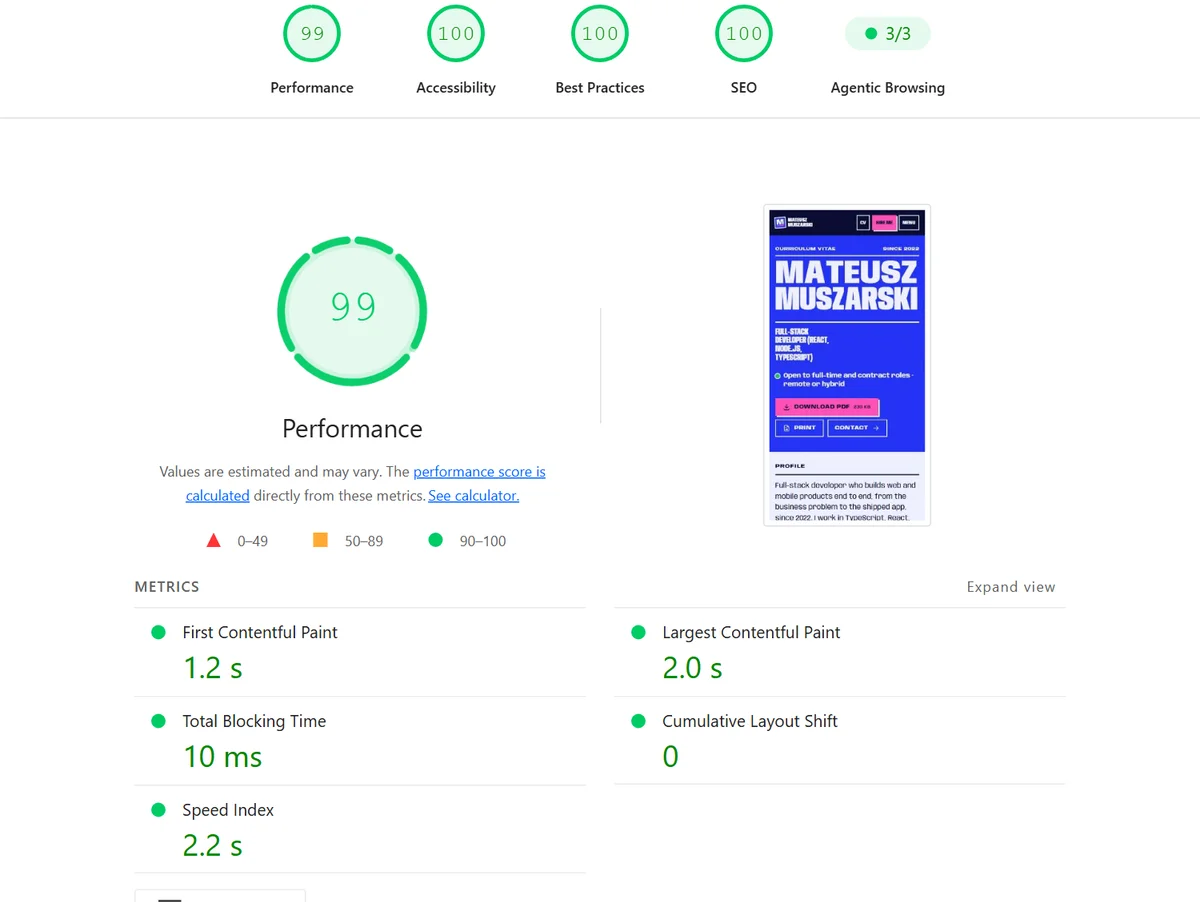
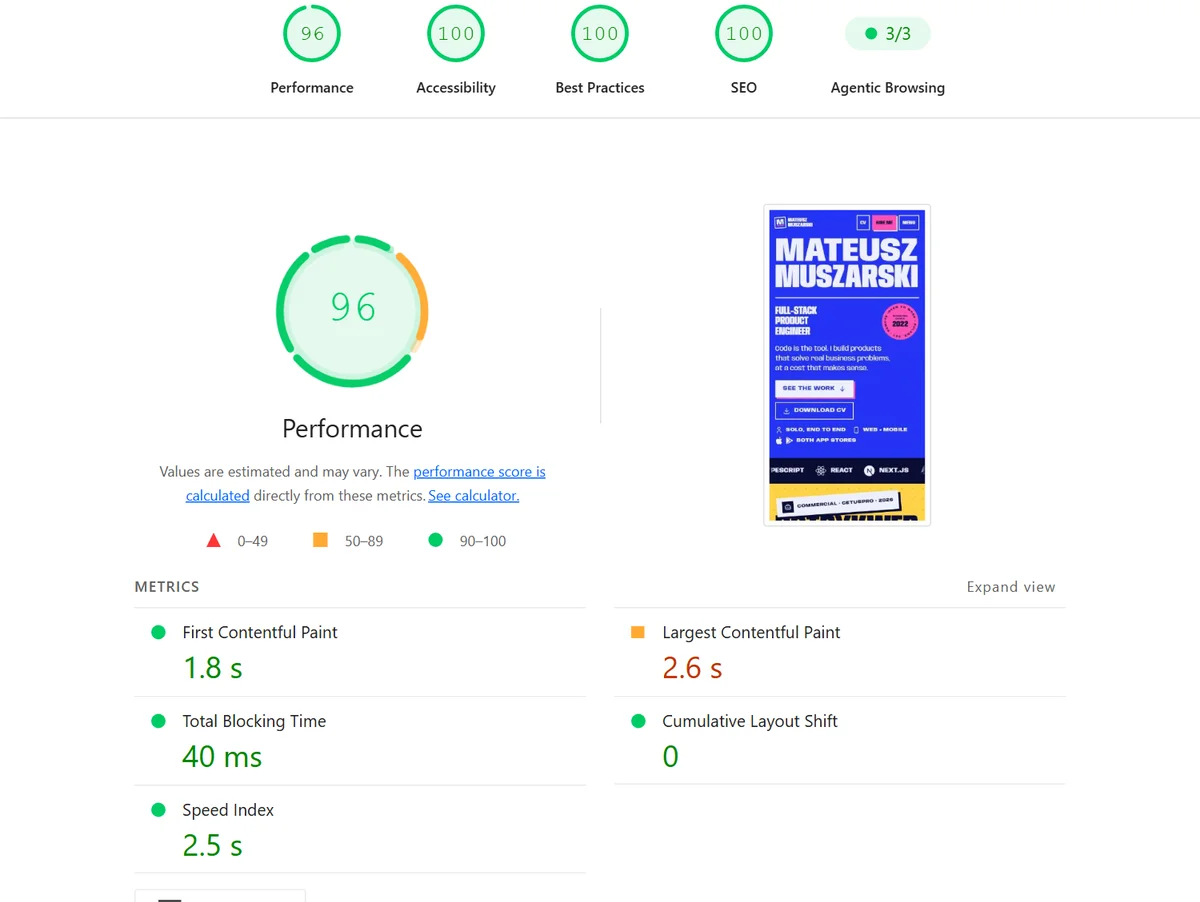
perf(home): back over the speed bar; the case study quotes the new numbers
Home was at Lighthouse 67-74 (TBT up to 1.1 s) after today's rounds. The code
fixes landed in 60813b8 (a parallel session's WIP commit took them from the
working tree); this commit documents them and updates what quotes the numbers:
- the chapters' loops wait for the reader's first move (html.woke)
- sections start paused and .near marks the visible ones (was .off on every
  offscreen section, which restyled 1,658 elements on load)
- the AI scene sits in block flow (grids around its size container cost ~1 s)
- Chapters sets top, not an inherited --stick
- reveals and undraws animate only the reveal
- How I work and the AI story ship their first state in the markup

Quiet machine, local build, median of 3: home 95-96, TBT 33-93 ms, CLS 0;
the other pages 96-100; e2e 236/236.

The case study (en, pl) now says 95+ and quotes this run; its report image is
a real home report and both OG images carry the new title. Wiki: run-notes,
design, astro usage, lessons (merged; five promoted to their pages), log.

diff --git a/.claude/project-info/lessons.md b/.claude/project-info/lessons.md
@@ -3,8 +3,9 @@
 > Mistakes already paid for, as one-line rules. `.claude/hooks/session-start.mjs` injects the "Rules"
 > section into every session and after every compaction, so it stays short: no more than 60 rules and
 > under the 8,000-character card, merged and pruned. How to add, place and promote one: `working-agreement.md` § 7.
-> Product facts live in their own page, not here. Promoted 2026-10-07 (still in their pages): Sätteri plugins
-> (astro.md), fontkit, `api/` ESM imports and host redirects (technologies.md), production hosts (analytics.md), the
+> Product facts live in their own page, not here. Promoted 2026-10-07 (still in their pages): Sätteri plugins,
+> `content-visibility`, the stuck-chapter focus, MDX component CSS and `satisfies` (astro.md), fontkit, `api/` ESM
+> imports and host redirects (technologies.md), production hosts (analytics.md), WebKit font shots (visual-qa.md), the
 > foldered wiki (README.md).
 
 ## Rules
@@ -34,12 +35,12 @@
 - `Icon.astro` forwards Astro's scope attribute, so a scoped `svg` selector also hits icons; target drawn SVGs by class - 2026-10-05.
 - Inline `<script>`s render between sibling sections: count siblings with `:nth-of-type`, not `:nth-child` - 2026-10-05.
 - A grid-stacked hidden label still sets the grid's width (it pushed the header off a 320 px screen); size stacks for the visible state - 2026-10-05.
-- Chrome holds first paint for a preloaded font, and HTML bytes compete with it: keep page HTML lean (icons live in the cached sprite; first-screen icons `inline`) - 2026-10-06.
+- Chrome holds first paint for a preloaded font, and HTML bytes compete with it: keep page HTML lean (icons in the cached sprite; first-screen icons `inline`). Keep the preload: without it home LCP fell 0.6 s but the parse landed after first paint (TBT 33 → 775 ms) - 2026-10-06.
 - A child rule like `.dlink > span { width: 100% }` also hits an added `.sr-only` span (a 1,193 px overflow): exclude `.sr-only` or wrap the visible text - 2026-10-06.
 - A focus target taller than the viewport minus the header always sits under the sticky header: cap media by viewport height (`100svh - var(--header-h)`) - 2026-10-06.
 - Astro does not scope `@keyframes` names: two components' `bob` collided. Prefix keyframes per component (`hw-`, `cr-`, `ai-`) - 2026-10-06.
 - Reduced motion keeps `animation-delay`: staged entrances stay hidden for their delay. Switch staged scenes off under reduced motion and `.still` - 2026-10-06.
-- Animate an HTML wrapper, never an `<svg>`: the spinning sticker forced a full-page layout every frame (~1 s TBT). Find such loops by pausing `document.getAnimations()` one name at a time - 2026-10-07.
+- Load cost hides in style and layout: animate an HTML wrapper, never an `<svg>` (a layout per frame); no grid around a `container-type` box (~1 s layouts); set `top`, not an inherited custom property, on big subtrees; never toggle a class a `*` rule reads on a big ancestor (`.off *` restyled 1,658 elements: start paused, mark what is near); transition only the revealed state. Find each with traces and CSS A/B via `page.route` - 2026-10-07.
 
 ### Privacy of inputs
 - Images pasted in chat never reach the disk: ask the owner to drop the files in the repo, and build the slot so it switches on when they land - 2026-10-06.
@@ -47,19 +48,14 @@
 
 ### Tools and environment
 - Splicing text by slices or offsets drops or misplaces content: replace named blocks, then `node --check` / build and render-check at once - 2026-10-05.
-- Run prettier from the repo root (`bunx prettier --write <paths>`; from `apps/web` it ignores the root config), never on generated files (`og.mjs` parses `icons.gen.ts` as JSON) - 2026-10-05.
+- Run prettier from the repo root (`bunx prettier --write <paths>`; from `apps/web` it ignores the root config), never on generated files (`og.mjs` parses `icons.gen.ts` as JSON); after formatting an Astro template, diff the rendered HTML (it put a visible space in `All<sup>`) - 2026-10-05.
 - Bash heredocs break on quotes and lose backslashes (again 2026-10-07), and `cd` persists: write scripts with Write, use absolute paths; Write/Edit decode `\uXXXX`, so emit invisible characters with `chr()` - 2026-10-05.
 - Python on Windows writes CRLF: always `open(..., "w", newline="\n")` (a fixer pass caught 6 files on 2026-10-06) - 2026-10-05.
 - Git Bash rewrites URL-path arguments (`/en/` → `P:/Git/en/`): prefix with `MSYS_NO_PATHCONV=1`, also for `bun run lhci` - 2026-10-05.
 - `bun run check` stops at the first failing task: a red test hid a typecheck error that got committed. Read every task's result, re-run `astro check` after fixing a test - 2026-10-06.
 - e2e role queries match substrings ("Pull-up" hit "Pull-ups"): pass `exact: true` for short names - 2026-10-06.
-- Playwright WebKit on Windows paints variable fonts at the default instance (layout is right): judge Safari by measured widths, never by those screenshots - 2026-10-06.
-- One `astro preview` per project: e2e, shots and Lighthouse share port 4322. A busy machine fakes regressions (leftover headless Chrome at 100% CPU): kill leftovers, check the load, rerun - 2026-10-07.
+- One `astro preview` per project: e2e, shots and Lighthouse share port 4322; for speed work build to a scratch `--outDir` and serve it on its own port (`E2E_PORT`, `lhci --base`). A busy machine fakes regressions (other sessions' headless Chrome at 100% CPU): check the load, rerun - 2026-10-07.
 - After a Playwright update, run `./node_modules/.bin/playwright install chromium` in `apps/web` (browser version mismatch) - 2026-10-06.
-- No `content-visibility: auto`: WebKit landed focus 300-700 px off and Lighthouse gained nothing - 2026-10-06.
-- WebKit scrolls focus to where a stuck sticky chapter is drawn (under the next poster): `Chapters.astro` re-scrolls to the flow position; test focus in Firefox + WebKit (`bun run e2e:xb`) - 2026-10-06.
 - The owner works on two PCs and runs parallel sessions (one committed another's WIP, 2026-10-07): `git pull`/`git log` first, stage your own paths only; on a merge take one side's `.po`, re-add the other's msgids, extract; regenerate PDFs - 2026-10-06.
 - WebSearch has a budget shared by parallel agents; prefer WebFetch of known URLs, then Playwright - 2026-10-05.
-- Components rendered inside MDX get their `<style>` inlined without a CSP hash (blocked in the browser): put their CSS in a stylesheet the page imports (`styles/case.css`); check the console with a real browser, the build doesn't fail - 2026-10-06.
-- `satisfies Foo[]` keeps literal types, so optional fields vanish from items that lack them (ts2339 in the consumer): annotate the map callback (`(item: CertItem) =>`) - 2026-10-06.
 - Routing: a generic phrase in one row outscores a project name; put shared task words in every row they apply to and re-run `wiki-context.mjs --test` - 2026-10-05.

diff --git a/.claude/project-info/design/design.md b/.claude/project-info/design/design.md
@@ -85,7 +85,7 @@ Tokens: `apps/web/src/styles/global.css` `:root`; `tokens.test.ts` checks AA for
 
 | Component | File | Notes |
 | --- | --- | --- |
-| Chapters | `home/Chapters.astro`, `home/chapters/*.astro`, `styles/chapters.css` | 4 skins (yellow, orange, lime, space); sticky stack (JS sets `--stick` so each poster sticks when its bottom meets the viewport); rights gate drops client/internship chapters at launch; then "Also shipped" (two tilted tickets, Malatro and yws.lu, in lime / orange, each a link with a site preview, name and one line; they straighten on hover or focus) + "All projects", on its own lighter navy (`--midnight`) with a slow drifting dot field [user 2026-10-07]; one row tall from 70 rem up (the label sits on two lines before the tickets), the tickets side by side from tablet width [user 2026-10-07: as small in height as possible]. **Backdrops** [user 2026-10-06: subtle illustrations like Space's stars]: `ChapterBackdrop.astro` puts the project's motifs as faint drifting line icons over a pattern (PstrykWeb dots, Linkoglot ruled lines, Clockful timesheet cells) at 10 %, under everything; Space keeps its stars. **Reading order** [user 2026-10-06]: badge → title → media → outcome → description (`.desc`) → one primary CTA → status → tools. ≤ 900 px stacks exactly so (`.stage-first`); wider, copy and media sit side by side (Linkoglot: copy · phone · CTAs, three columns). Linkoglot shows App Store + Google Play as two equal primaries; Space shows Launch (primary; "Desktop only · copy link" on touch) + Code (secondary), and its fitted title comes last, closing the poster |
+| Chapters | `home/Chapters.astro`, `home/chapters/*.astro`, `styles/chapters.css` | 4 skins (yellow, orange, lime, space); sticky stack (JS sets each chapter's `top` so the poster sticks when its bottom meets the viewport); rights gate drops client/internship chapters at launch; then "Also shipped" (two tilted tickets, Malatro and yws.lu, in lime / orange, each a link with a site preview, name and one line; they straighten on hover or focus) + "All projects", on its own lighter navy (`--midnight`) with a slow drifting dot field [user 2026-10-07]; one row tall from 70 rem up (the label sits on two lines before the tickets), the tickets side by side from tablet width [user 2026-10-07: as small in height as possible]. **Backdrops** [user 2026-10-06: subtle illustrations like Space's stars]: `ChapterBackdrop.astro` puts the project's motifs as faint drifting line icons over a pattern (PstrykWeb dots, Linkoglot ruled lines, Clockful timesheet cells) at 10 %, under everything; Space keeps its stars. **Reading order** [user 2026-10-06]: badge → title → media → outcome → description (`.desc`) → one primary CTA → status → tools. ≤ 900 px stacks exactly so (`.stage-first`); wider, copy and media sit side by side (Linkoglot: copy · phone · CTAs, three columns). Linkoglot shows App Store + Google Play as two equal primaries; Space shows Launch (primary; "Desktop only · copy link" on touch) + Code (secondary), and its fitted title comes last, closing the poster |
 | Chapter badge | `home/chapters/ChapterBadge.astro` | the tilted chip that opens a chapter: kind · who · year, so the context reads before the title [user 2026-10-06]. Replaced the 3-cell bar ("OWN PRODUCT" + a "01 / 04" counter). PstrykWeb "Commercial · Cetuspro · 2026" (never "solo", never "team" [user 2026-10-06]), Linkoglot "Own product · solo · 2026" (with its app icon), Clockful "Internship · Neoteric · 2026", Space "Personal · solo · 2025" |
 | Reel | `scripts/reel.ts` | sources attach after the first interaction AND near view; plays at 50% visible, pauses offscreen, on Pause motion and under reduced motion. **No playback bar** [user 2026-10-06: `ReelControls.astro` and the lightbox deleted]: a `.r-hit` button over the frame pauses or resumes (labelled Play / Pause video); the big play glyph is visual only; the site-wide Pause motion still covers WCAG 2.2.2 |
 | PstrykWeb stage | chapter 01 | #1 burst (ring text fitted at build), drawn order loop (CSS, 10 s), "Video soon" (P18); public info only. Copy: a short `.desc` (public info) in place of the 3 icon tiles and the "For local businesses" / "Built solo" icon facts [user 2026-10-06]. CTA "Visit pstrykweb.pl" (the landing, not the konfigurator), status "Live" [user 2026-10-06] |
@@ -111,10 +111,14 @@ button, flags, single theme, chapters, AI, credentials, writing, contact, footer
   200-900 ms.
 - **Rules:** the H1 never fades or moves on load; first-screen entrances are CSS and never hide content (no opacity 0,
   no delay over ~150 ms: a first visit showed only the name for up to 1 s [user 2026-10-06]); `.rv` reveals below the fold only
-  hide once the script runs (`html.rv-ready`), so a failed script hides nothing. Sections get `.off` offscreen (CSS
-  loops pause); `html.still` pauses everything (WCAG 2.2.2); reduced motion shows the final state.
+  hide once the script runs (`html.rv-ready`), so a failed script hides nothing. A section runs its CSS loops only while
+  near the viewport (`.near`; each page's first section has it in the markup), and the chapters' loops wait for the
+  reader's first move (`html.woke`); `html.still` pauses everything (WCAG 2.2.2); reduced motion shows the final state.
 - **Cost:** page JS 3.0 KB gz at the hero slice (fit 1.7, motion 0.5, pause 0.4, band 0.3). The accordion reads one
   bounding box per visible block per frame (before any write), never per letter.
+- **Load (2026-10-07):** nothing decorative works while the page loads: scenes ship their first state in the markup
+  (no `show()` on load), hiding below the fold is instant (only the reveal transitions), the AI scene sits in block
+  flow (a grid around its size container cost ~1 s of layout). Numbers: `memory/run-notes.md`.
 - **Entrances under a stored pause:** `.still *` pauses every animation, which would freeze an entrance on its hidden first
   frame; entrances carry `.rise` / `.enter` and show their final state when paused (`global.css`, `e2e/pages.spec.ts`).
 

diff --git a/.claude/project-info/tech/usage/astro.md b/.claude/project-info/tech/usage/astro.md
@@ -41,7 +41,9 @@
   character to `PUNCT` in `scripts/fonts.mjs` (or use one the font has), then `bun run fonts`.
 - Breakpoints: `sm` 480 · `md` 768 · `lg` 1024 · `xl` 1440 · `2xl` 1920; the header collapses below 1180 (73.75rem).
 - Motion: `--ease-out`, `--ease-pop`, `--dur-fast/base/slow` (200/350/800 ms). JS loops import `~/scripts/motion`
-  (`motionStill`, `onMotion`); CSS loops pause through `.off` / `.still`. The reduced-motion rule shortens every transition
+  (`motionStill`, `onMotion`); CSS loops run only in a section near the viewport (`.sec.near`, set by the motion
+  script; a page's first section carries `near` in its markup) and pause under `.still`; the chapters' loops also
+  wait for the first move (`html.woke`). The reduced-motion rule shortens every transition
   to 0.01 ms (read colours in tests with a poll).
 
 ## Head, CSP, SEO
@@ -57,6 +59,11 @@
 - `markdown.smartypants` is deprecated in Astro 7; smart punctuation is switched off on the processor instead
   (`satteri({ features: { smartPunctuation: false } })`: English curly quotes are wrong in Polish).
 - `exactOptionalPropertyTypes` is on (strictest): optional props that may receive `undefined` are typed `T | undefined`.
+- `satisfies Foo[]` keeps literal types, so optional fields vanish from items that lack them (ts2339 in the consumer):
+  annotate the map callback (`(item: CertItem) =>`) (2026-10-06).
+- Components rendered inside MDX get their `<style>` inlined without a CSP hash (blocked in the browser): put their CSS
+  in a stylesheet the page imports (`styles/case.css`); check the console in a real browser, the build doesn't fail
+  (2026-10-06).
 
 ## Content, Markdown and generated files (2026-10-05)
 
@@ -71,9 +78,10 @@
   conditional, or the build throws "t is not defined"). The launch gate fails a new-tab link without the note.
 - Keyboard focus and the sticky header: `scroll-padding-top` does most of it; `SiteHeader.astro` re-scrolls a focused
   element left partly under the header (Firefox, focus moving up) and `Chapters.astro` re-scrolls to the flow position
-  when WebKit leaves focus in a stuck chapter under the next poster. No `content-visibility: auto` (it threw WebKit's
-  focus 300-700 px off and Lighthouse gained nothing). One-shot fades in offscreen sections freeze (`.off` pauses all
-  animations): don't fade what is visible on load (credentials' first card has no fade; axe read it at 1.6:1).
+  when WebKit leaves focus in a stuck chapter under the next poster; test focus in Firefox + WebKit (`bun run e2e:xb`).
+  No `content-visibility: auto` (it threw WebKit's focus 300-700 px off and Lighthouse gained nothing). Animations in a
+  section that is not `.near` wait on their first frame: don't fade what is visible on load (credentials' first card
+  has no fade; axe once read a frozen fade at 1.6:1).
 - Shared pieces for sections: `.sbar` (3-cell bar + drawn rule, add `draw`), `ui/StackList.astro` (`.stack`: "Built
   with" + plain marks and names, never chips), `.status`, `.toast` (global.css); chapters share `styles/chapters.css`
   (`ChapterBadge`, `.desc`, `.mstats`, reels with a `.r-hit` tap target); long text uses `styles/prose.css`.

diff --git a/.claude/project-info/log.md b/.claude/project-info/log.md
@@ -41,3 +41,4 @@
 ## [2026-10-07] perf | Home TBT: the sticker and PstrykWeb burst spun their `<svg>`, which Chrome can't composite, so the page laid out every frame (pausing `spin` alone took layouts from 60/s to 0); the spin moved to HTML wrappers. The letter wave now starts after the first interaction; Chapters measures in its ResizeObserver, reads before writes. Main thread on load 16 s → 8.5 s (4x CPU). Lighthouse on this machine was unreliable today (leftover headless Chrome, other apps at 100% CPU); re-measure on a quiet machine.
 ## [2026-10-07] work | `/work/` rebuilt [user: "completely rethink"]: one row of type pills (the tool filter is gone), a wall of cards with media first: live-site captures that scroll on hover / with the page on phones (`public/media/work/`, P24), the Linkoglot and Space reels, drawn scenes (Clockful timer, CLI terminal, starters fan, screensaver swirl, react-clickme effects live). Research: Mobbin (Unseen Studio, Instrument, Koto, MOUTHWASH, Studio Freight). structure.md § All projects, design.md row, assets.md, placeholders P24.
 ## [2026-10-07] wiki | Lessons: do the one thing asked; animate a wrapper never an `<svg>`; a busy machine fakes regressions; parallel sessions (stage your own paths); prettier never on generated files. Six rules promoted to their topic pages to stay under the 8,000-character card. content-model § Credential: `knowledge`, `label`, `site`, `courseUrl`, `places`. `icons.gen.ts` in `.prettierignore` (prettier had broken `og.mjs`).
+## [2026-10-07] perf | Home speed back over the bar: Lighthouse 67 → 95-96, TBT 1,067 → 33-93 ms (quiet machine, median of 3). The chapters' loops wait for the first move (`html.woke`); sections start paused and `.near` marks the visible ones (was `.off` on every offscreen section); the AI scene sits in block flow; Chapters sets `top`, not `--stick`; reveals and undraws animate only the reveal; How I work and the AI story ship their first state in the markup. Case study: numbers follow this run (title "Lighthouse 95+"), report image and both OG images regenerated. Lessons merged; five rules promoted to astro.md / visual-qa.md. design.md, design-quality.md, run-notes.md.

diff --git a/.claude/project-info/memory/run-notes.md b/.claude/project-info/memory/run-notes.md
@@ -83,3 +83,24 @@
 - My life after the hobby prints (local preview, median of 3-5): en 92 / es 92 / pl 96, TBT 0-8 ms, LCP 2.8-3.3 s
   (photos; see `slice-costs.md`). One en median read 89 / TBT 190 ms while another session's headless Chrome ran;
   the rerun was clean. `bun run e2e` on the touched specs: 206/206 in ~2.1 min; i18n 30/30.
+
+## Home speed regression and fix (2026-10-07 afternoon)
+
+- Regression: home 67-74, TBT 0.7-1.1 s after the day's home rounds. Found by tracing (4x CPU, phone) and A/B CSS
+  overrides injected with `page.route` on a private build (`astro build --outDir <scratch>` on its own port),
+  interleaved runs, medians. Each cause and its fix:
+  - the PstrykWeb chapter's loops ran while the page loaded (~2 s of main thread): loops wait for the first move;
+  - the AI scene's size container inside two grids (~1 s per full layout): block flow;
+  - `.off` added to every offscreen section on load restyled 1,658 elements (`.off *`): sections start paused, `.near`
+    marks the visible ones;
+  - Chapters set an inherited custom property (`--stick`), restyling everything inside: it sets `top`;
+  - `rv-ready` faded every `.rv` block out through its transition (also the `.sbar` rules and the writing cards'
+    undraw): only the reveal transitions;
+  - How I work and the AI story ran `show(0)` on load (forced layouts): the first state is in the markup.
+- After (quiet machine, local build, median of 3): home en 96 / pl 95 / es 95, TBT 33-93 ms, LCP 2.3-2.6 s, CLS 0; CV
+  99-100, blog 98-100, work 96-97, the case study 99 (en, pl). e2e 236/236 on that build.
+- LCP is the font preload: Chrome holds first paint until the preloaded font arrives, then the next frame waits for the
+  parse of what is below the fold. Without the preload LCP was 1.96 s but TBT 775 ms (score 80): keep it. What would
+  help: less below-the-fold DOM and CSS (home HTML 60 KB gz; 149 KB inline CSS: global 34, How I work 26, AI 25,
+  credentials 19). Hidden scenes as `<template>` gained nothing (display:none costs no layout).
+- The case study quotes this run (home 95+, the other pages 96-100); its report image is a real home report.

diff --git a/.claude/project-info/design/design-quality.md b/.claude/project-info/design/design-quality.md
@@ -51,7 +51,7 @@ are judged on type, measure and rhythm instead.
 | Motion | Custom ease-out curves only, never `ease`/`linear`; durations 200–900 ms | `design.md`, [research] |
 | Motion | The H1 paints final in the first frame (never faded); lead and CTAs enter in CSS, cascade done ≤ 600 ms after first paint; animate transform, opacity, `font-stretch` on display letters and SVG strokes only | [research], `design.md` |
 | Motion | A living layer the owner asked for ("a lot of micro animations or loops"): the letter accordion, hover/press shadows, small loops per section, one scroll moment (the chapter stack). Dead-static fails; so do scroll-jacking, a trapping pin or any intro | [user], `CLAUDE.md` |
-| Motion | Loops > 5 s carry the global pause control; loops stop offscreen (`.off`); JS loops never read layout per frame | [research], `design.md` |
+| Motion | Loops > 5 s carry the global pause control; loops stop offscreen (a `.sec` without `.near`); JS loops never read layout per frame | [research], `design.md` |
 | Forms | A visible field surface with a 2 px border, label above, ≥ 44 px tall, a designed focus ring | [research] |
 | Craft | Branded `::selection`; a 3 px focus ring, never removed; hover never shifts layout; every hover effect has a tap, focus or scroll twin; crafted 404, empty, error, loading and toast states | [research], [user] |
 

diff --git a/.claude/project-info/content/content-model.md b/.claude/project-info/content/content-model.md
@@ -91,7 +91,7 @@ cover (code-drawn or real), coverAlt, author: "mateusz", draft, canonical? }`.
 - Posts may import the case-study pieces (`components/blog/case/`): `Timeline` (versions in order: thumbnail, date,
   verdict stamp, the owner's words verbatim, one line), `Versions` (one part of the site through its rounds as tabs:
   screenshot, what the owner said, why it changed) and `Shots` (framed screenshots with tags such as "Claude's pick").
-  All text is passed from the per-locale MDX; their CSS lives in `styles/case.css` (see lessons: MDX component styles
+  All text is passed from the per-locale MDX; their CSS lives in `styles/case.css` (see `tech/usage/astro.md` § Gotchas: MDX component styles
   and the CSP). Images live in `src/assets/case/` (1200 px webp, made from `comps/` and fresh shots of the site).
 - 2026-10-06 round [user: "make sure all of the blogs are quality and nice to read, write a bunch more"]: every post
   has a TL;DR, question headings and short paragraphs; seven new posts in en + pl (portfolio Lighthouse data, the

diff --git a/.claude/project-info/tech/usage/visual-qa.md b/.claude/project-info/tech/usage/visual-qa.md
@@ -30,6 +30,8 @@
 - Git Bash rewrites `/en/` into `P:/Git/en/`: prefix commands that take URL paths with `MSYS_NO_PATHCONV=1`.
 - One `astro preview` per project (port 4322): the scripts reuse a running one; stop it before a rebuild only if files are locked.
 - The 0.01 ms reduced-motion transition means a colour read right after a change is the old value: poll in tests.
+- Playwright WebKit on Windows paints variable fonts at the default instance (layout is right): judge Safari by measured
+  widths, never by those screenshots (2026-10-06).
 - WebGL in headless Chromium needs `chromium.launch({ args: ["--use-angle=swiftshader", "--enable-unsafe-swiftshader"] })`,
   or shader canvases stay on their fallback. To shoot a shader transition frame by frame, `page.clock.pauseAt(...)` and
   then short `page.clock.runFor(130)` steps; `clock.install()` + one long `runFor` renders every frame and times out
